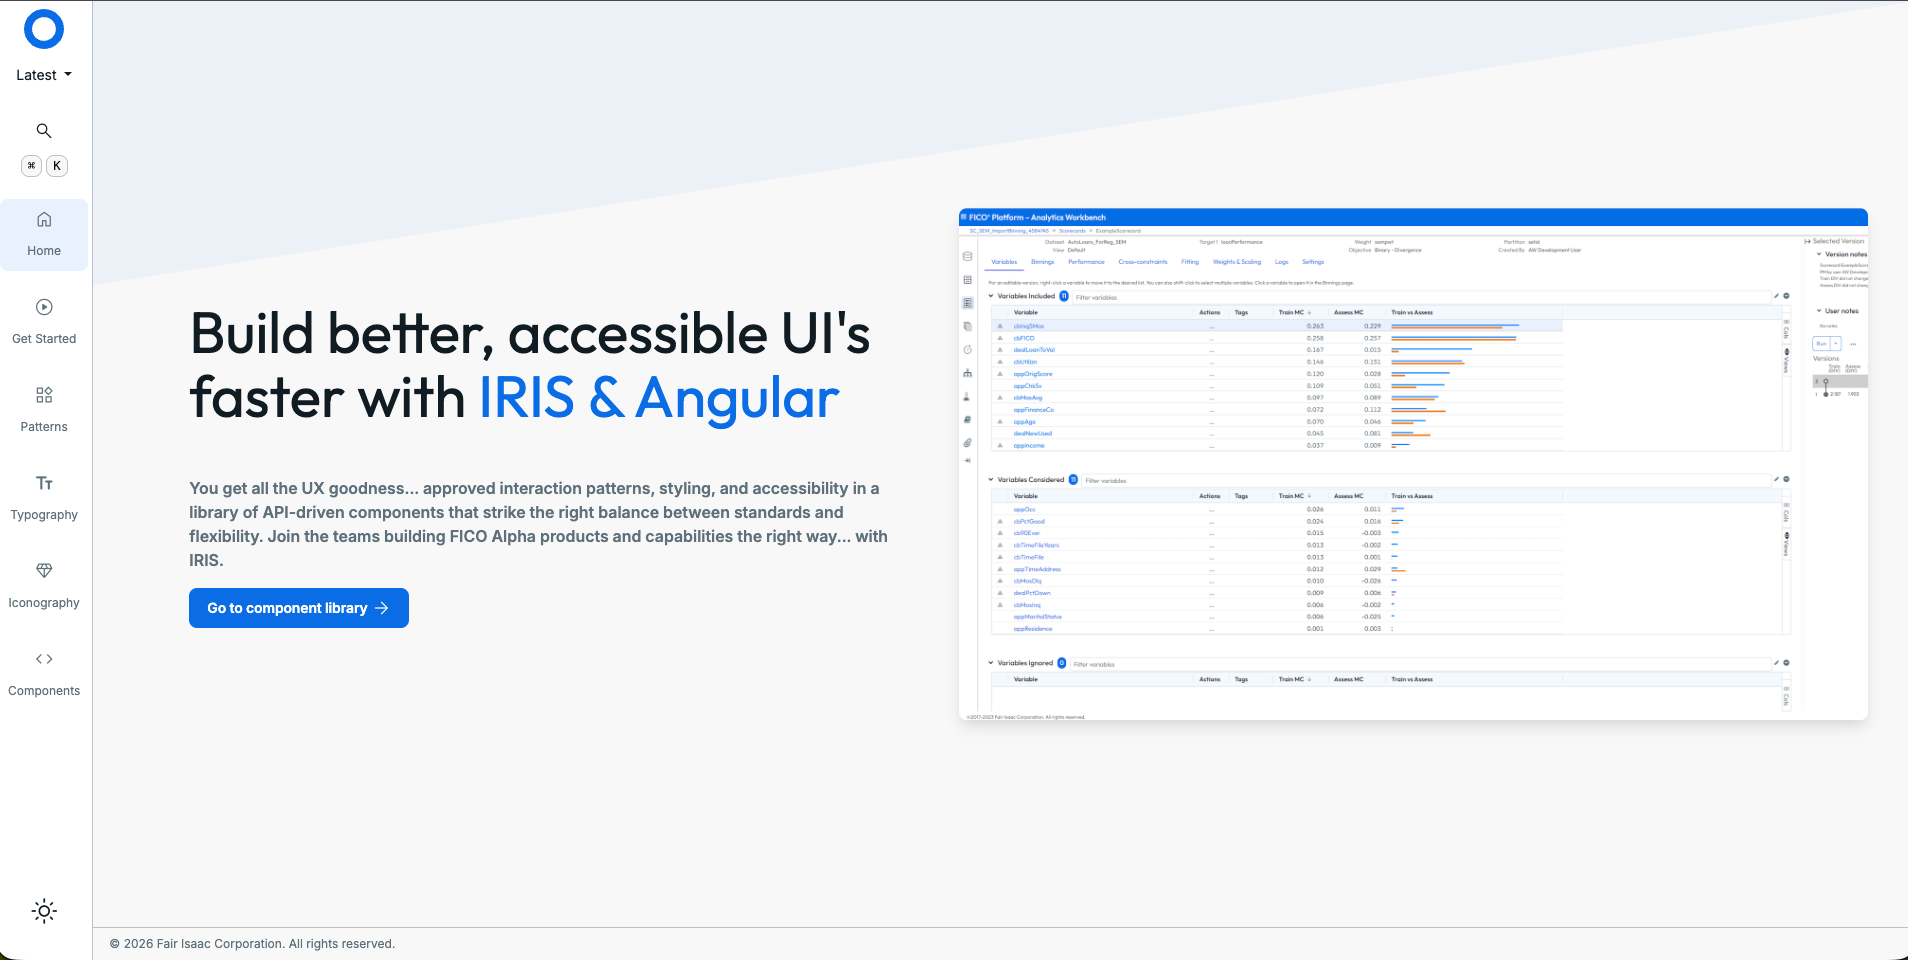
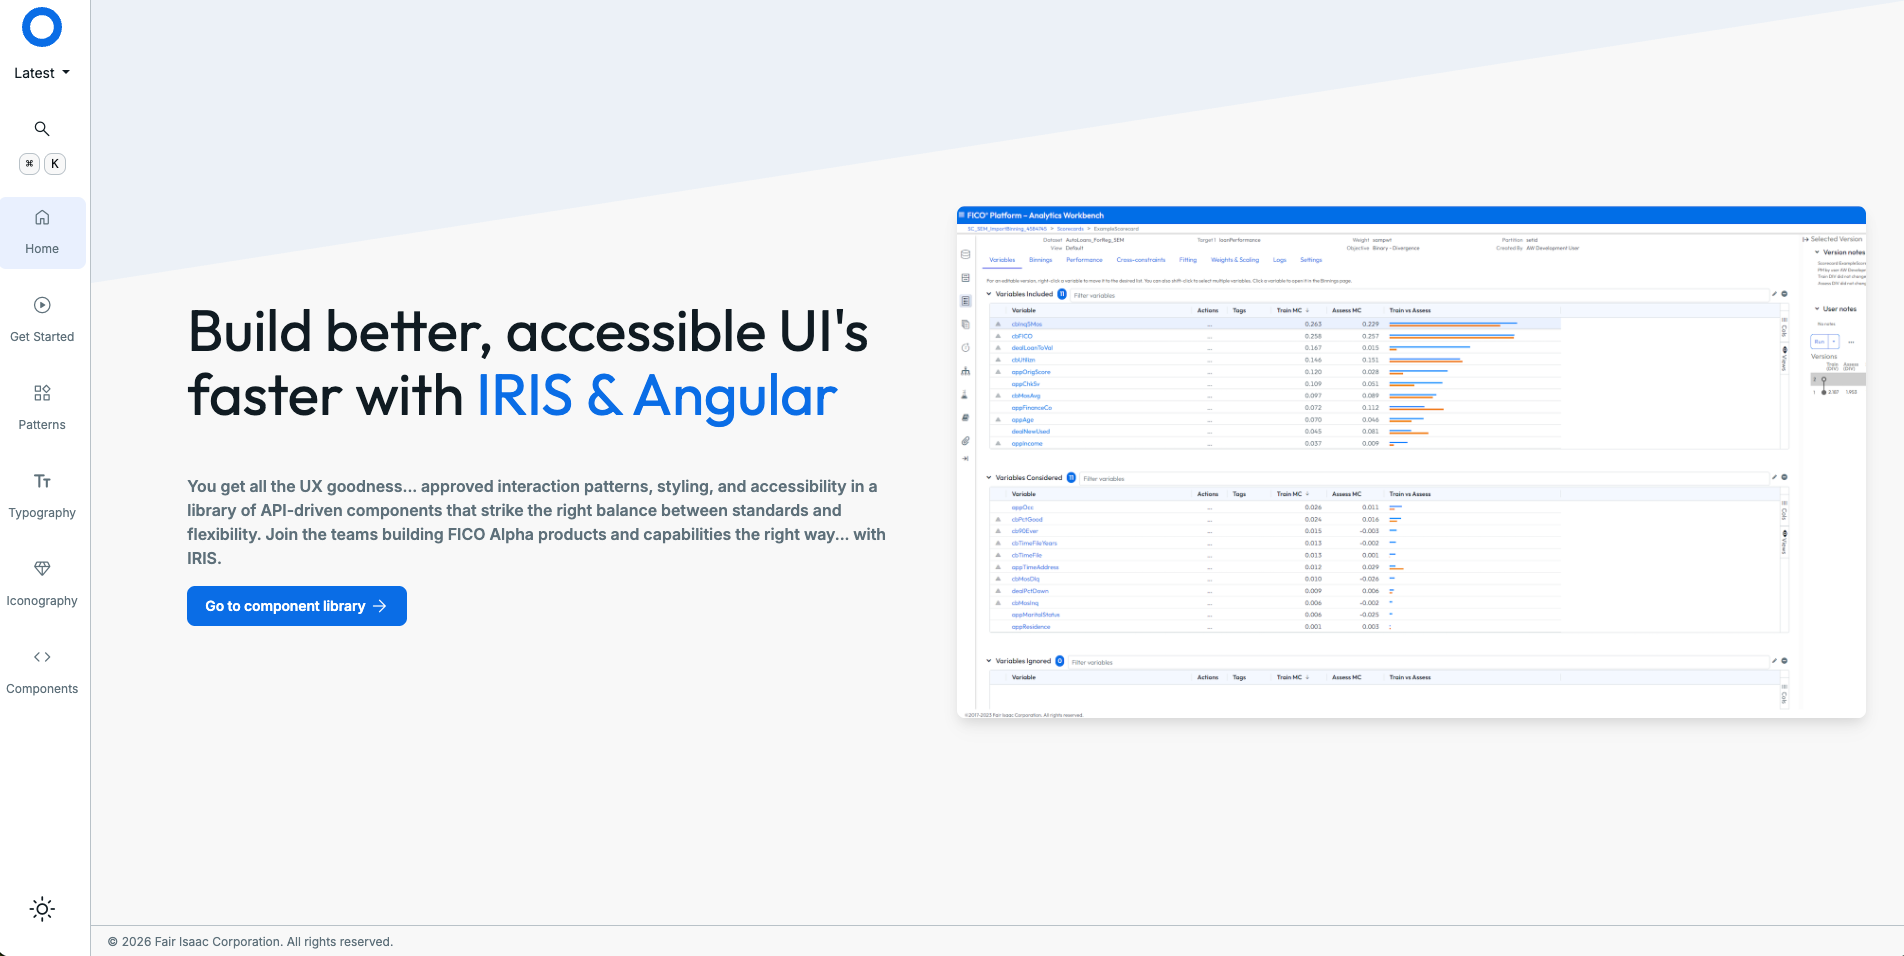
Crop dark edge off IRIS docs screenshot

diff --git a/index.html b/index.html
@@ -229,7 +229,7 @@ footer{padding:28px 0 40px;color:var(--muted);font-size:14px;border-top:1px soli
       <p class="intro">I started IRIS in 2020 with one or two teams using it. Today 50 domains across FICO's legacy and modern platforms depend on it, and marketing and product share one token language. I've built more than 90 components for it, in both the core design system library and the platform.</p>
 
       <figure class="shot">
-        <img src="assets/iris-docs.png" width="1908" height="960" loading="lazy" alt="The IRIS documentation site home page: a sidebar for Home, Get Started, Patterns, Typography, Iconography and Components, and the headline Build better, accessible UIs faster with IRIS and Angular.">
+        <img src="assets/iris-docs.png" width="1904" height="956" loading="lazy" alt="The IRIS documentation site home page: a sidebar for Home, Get Started, Patterns, Typography, Iconography and Components, and the headline Build better, accessible UIs faster with IRIS and Angular.">
         <figcaption>The IRIS docs site: patterns, typography, iconography and a component library with live examples developers can edit without touching production code.</figcaption>
       </figure>
 
@@ -240,7 +240,7 @@ footer{padding:28px 0 40px;color:var(--muted);font-size:14px;border-top:1px soli
           <p>Across the core IRIS library and the platform layer built on top of it, covering everything from basic controls to full application patterns.</p>
         </div>
         <div>
-          <div class="fig">1–2 → 50</div>
+          <div class="fig">1â€“2 â†’ 50</div>
           <h3 style="margin-top:14px">Teams to dependent domains</h3>
           <p>Adoption grew through weekly office hours, live StackBlitz examples, release notes in the shared Teams channel, and hands-on help with Angular upgrades.</p>
         </div>
@@ -255,12 +255,12 @@ footer{padding:28px 0 40px;color:var(--muted);font-size:14px;border-top:1px soli
       <div class="shots-2">
         <figure class="shot">
         <!-- Replace this placeholder with: <img src="..." alt="Screenshot: Falcon Fraud, light theme"> -->
-        <div class="ph"><svg viewBox="0 0 24 24" fill="none" stroke-width="1.6" stroke-linecap="round" stroke-linejoin="round" aria-hidden="true"><rect x="3" y="4" width="18" height="16" rx="2"/><circle cx="8.5" cy="9.5" r="1.5"/><path d="M21 16l-5-5-8 8"/></svg><strong>Screenshot: Falcon Fraud, light theme</strong><span>A key screen built entirely from IRIS components. 1600 × 1000 px.</span></div>
+        <div class="ph"><svg viewBox="0 0 24 24" fill="none" stroke-width="1.6" stroke-linecap="round" stroke-linejoin="round" aria-hidden="true"><rect x="3" y="4" width="18" height="16" rx="2"/><circle cx="8.5" cy="9.5" r="1.5"/><path d="M21 16l-5-5-8 8"/></svg><strong>Screenshot: Falcon Fraud, light theme</strong><span>A key screen built entirely from IRIS components. 1600 Ã— 1000 px.</span></div>
         <figcaption>Falcon Fraud, rebuilt in 2023 using only IRIS components.</figcaption>
       </figure>
         <figure class="shot">
         <!-- Replace this placeholder with: <img src="..." alt="Screenshot: same screen, dark theme"> -->
-        <div class="ph"><svg viewBox="0 0 24 24" fill="none" stroke-width="1.6" stroke-linecap="round" stroke-linejoin="round" aria-hidden="true"><rect x="3" y="4" width="18" height="16" rx="2"/><circle cx="8.5" cy="9.5" r="1.5"/><path d="M21 16l-5-5-8 8"/></svg><strong>Screenshot: same screen, dark theme</strong><span>The identical screen after a token-only theme switch. 1600 × 1000 px.</span></div>
+        <div class="ph"><svg viewBox="0 0 24 24" fill="none" stroke-width="1.6" stroke-linecap="round" stroke-linejoin="round" aria-hidden="true"><rect x="3" y="4" width="18" height="16" rx="2"/><circle cx="8.5" cy="9.5" r="1.5"/><path d="M21 16l-5-5-8 8"/></svg><strong>Screenshot: same screen, dark theme</strong><span>The identical screen after a token-only theme switch. 1600 Ã— 1000 px.</span></div>
         <figcaption>The same screen in dark mode. No component code changed, only tokens.</figcaption>
       </figure>
       </div>
@@ -311,7 +311,7 @@ footer{padding:28px 0 40px;color:var(--muted);font-size:14px;border-top:1px soli
       </dl>
       <figure class="shot">
         <!-- Replace this placeholder with: <img src="..." alt="Screenshot or video: an agent skill in action"> -->
-        <div class="ph wide"><svg viewBox="0 0 24 24" fill="none" stroke-width="1.6" stroke-linecap="round" stroke-linejoin="round" aria-hidden="true"><rect x="3" y="4" width="18" height="16" rx="2"/><circle cx="8.5" cy="9.5" r="1.5"/><path d="M21 16l-5-5-8 8"/></svg><strong>Screenshot or video: an agent skill in action</strong><span>For example, a PRD becoming a scaffolded feature, or a Figma mock becoming a prototype. 1600 × 800 px.</span></div>
+        <div class="ph wide"><svg viewBox="0 0 24 24" fill="none" stroke-width="1.6" stroke-linecap="round" stroke-linejoin="round" aria-hidden="true"><rect x="3" y="4" width="18" height="16" rx="2"/><circle cx="8.5" cy="9.5" r="1.5"/><path d="M21 16l-5-5-8 8"/></svg><strong>Screenshot or video: an agent skill in action</strong><span>For example, a PRD becoming a scaffolded feature, or a Figma mock becoming a prototype. 1600 Ã— 800 px.</span></div>
         <figcaption>An AI agent building with IRIS components instead of improvising its own UI.</figcaption>
       </figure>
     </div>
@@ -341,9 +341,9 @@ footer{padding:28px 0 40px;color:var(--muted);font-size:14px;border-top:1px soli
     <div class="wrap">
       <h2 id="work-title">Experience</h2>
       <div class="jobs">
-        <div class="job"><div class="when">2022 – Present</div><div><h3>Senior UI Engineer, Design Systems</h3><div class="org">FICO · Remote</div><p>Scaled IRIS to 50 domains, led the Falcon Fraud rewrite, built the token pipeline and theming, ran the WCAG AA audit, brought AI into our workflow, and lead the team's junior engineers.</p></div></div>
-        <div class="job"><div class="when">2020 – 2022</div><div><h3>Lead UI Engineer, Design Systems</h3><div class="org">FICO · Remote</div><p>Built IRIS from scratch, defined the token naming strategy, set up the Nx monorepo and a Module Federation micro-frontend reference, and drove early adoption.</p></div></div>
-        <div class="job"><div class="when">2014 – 2020</div><div><h3>Front-end Developer / UX Designer</h3><div class="org">Dillard's · Little Rock</div><p>Designed and built internal and customer-facing apps, migrated the e-commerce CMS to Angular, built shared component libraries, and taught JavaScript and Angular classes.</p></div></div>
+        <div class="job"><div class="when">2022 â€“ Present</div><div><h3>Senior UI Engineer, Design Systems</h3><div class="org">FICO Â· Remote</div><p>Scaled IRIS to 50 domains, led the Falcon Fraud rewrite, built the token pipeline and theming, ran the WCAG AA audit, brought AI into our workflow, and lead the team's junior engineers.</p></div></div>
+        <div class="job"><div class="when">2020 â€“ 2022</div><div><h3>Lead UI Engineer, Design Systems</h3><div class="org">FICO Â· Remote</div><p>Built IRIS from scratch, defined the token naming strategy, set up the Nx monorepo and a Module Federation micro-frontend reference, and drove early adoption.</p></div></div>
+        <div class="job"><div class="when">2014 â€“ 2020</div><div><h3>Front-end Developer / UX Designer</h3><div class="org">Dillard's Â· Little Rock</div><p>Designed and built internal and customer-facing apps, migrated the e-commerce CMS to Angular, built shared component libraries, and taught JavaScript and Angular classes.</p></div></div>
         <div class="job"><div class="when">2013</div><div><h3>BBA in Management Information Systems, Cum Laude</h3><div class="org">University of Central Arkansas</div></div></div>
       </div>
     </div>
@@ -383,7 +383,7 @@ footer{padding:28px 0 40px;color:var(--muted);font-size:14px;border-top:1px soli
 </main>
 
 <footer>
-  <div class="wrap">© 2026 Logan Livingston · Little Rock, Arkansas</div>
+  <div class="wrap">Â© 2026 Logan Livingston Â· Little Rock, Arkansas</div>
 </footer>
 
 <script>
